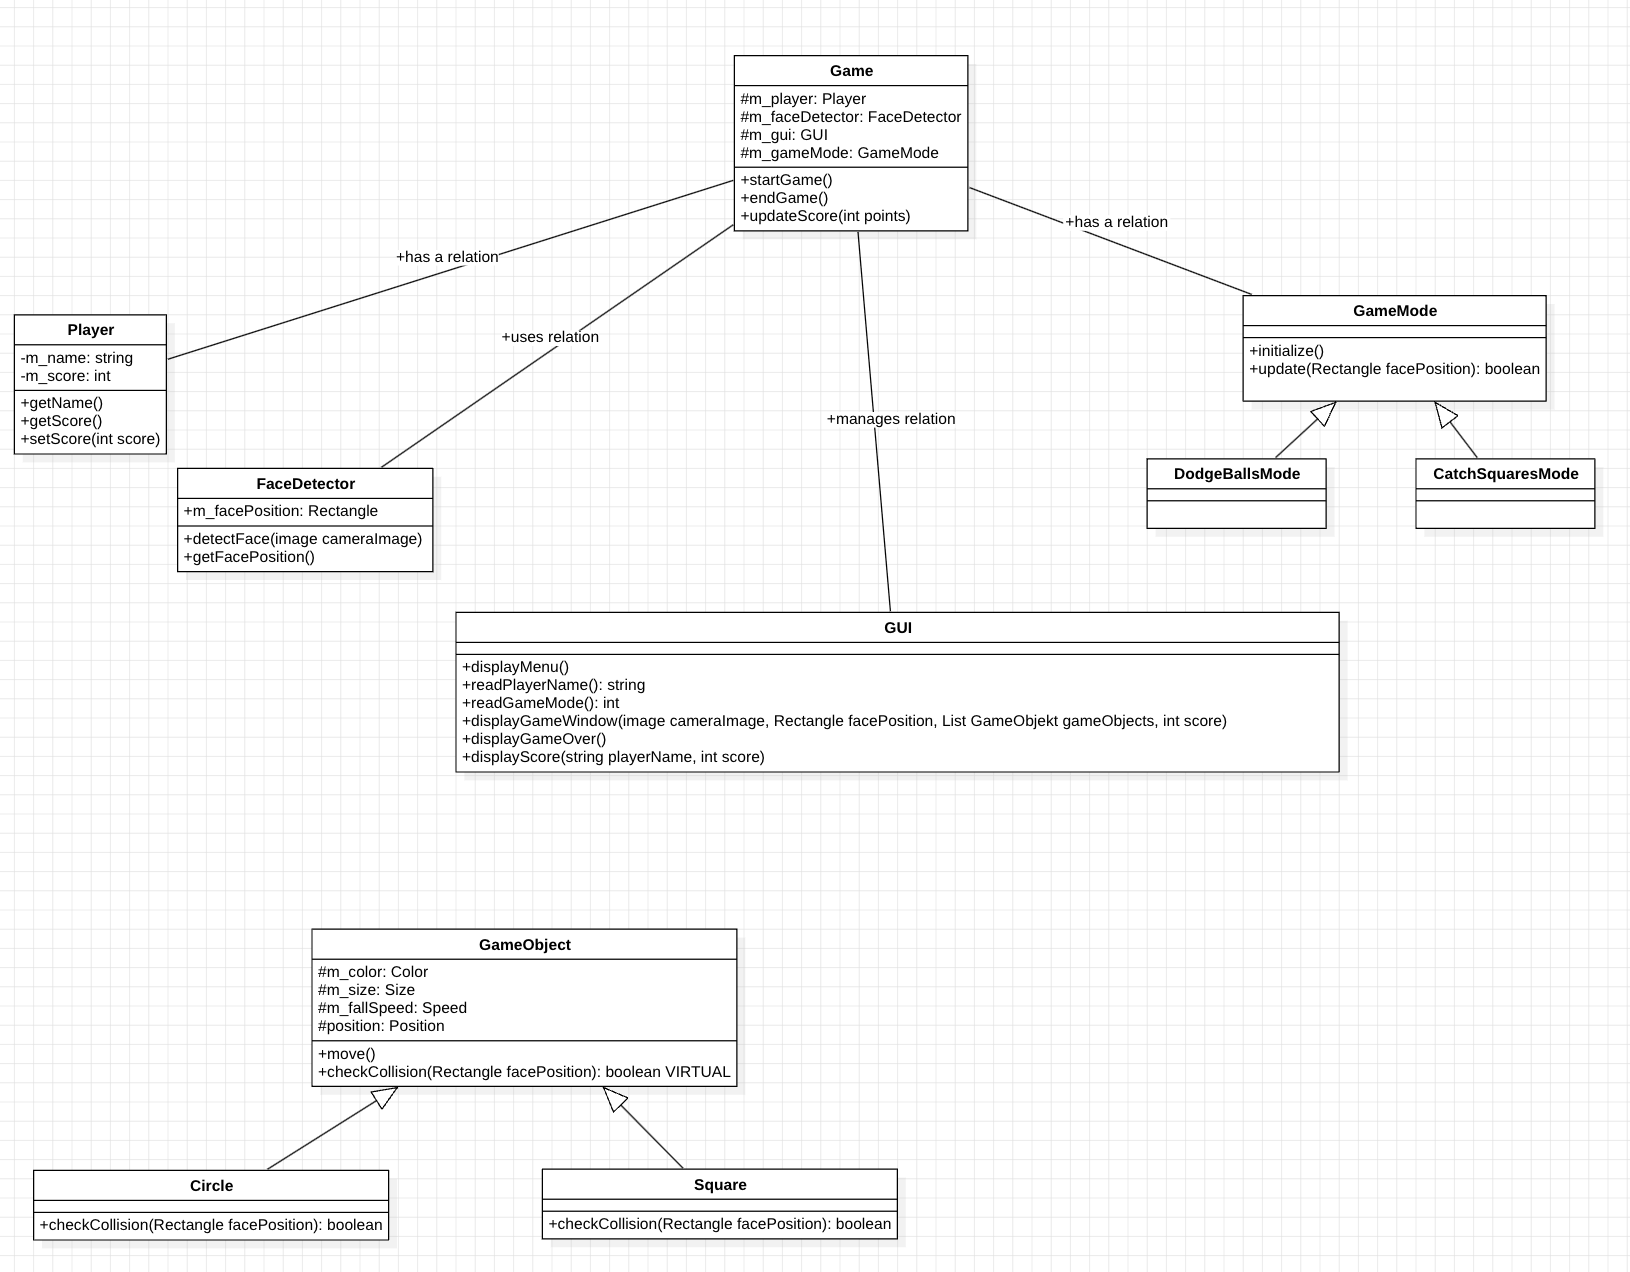
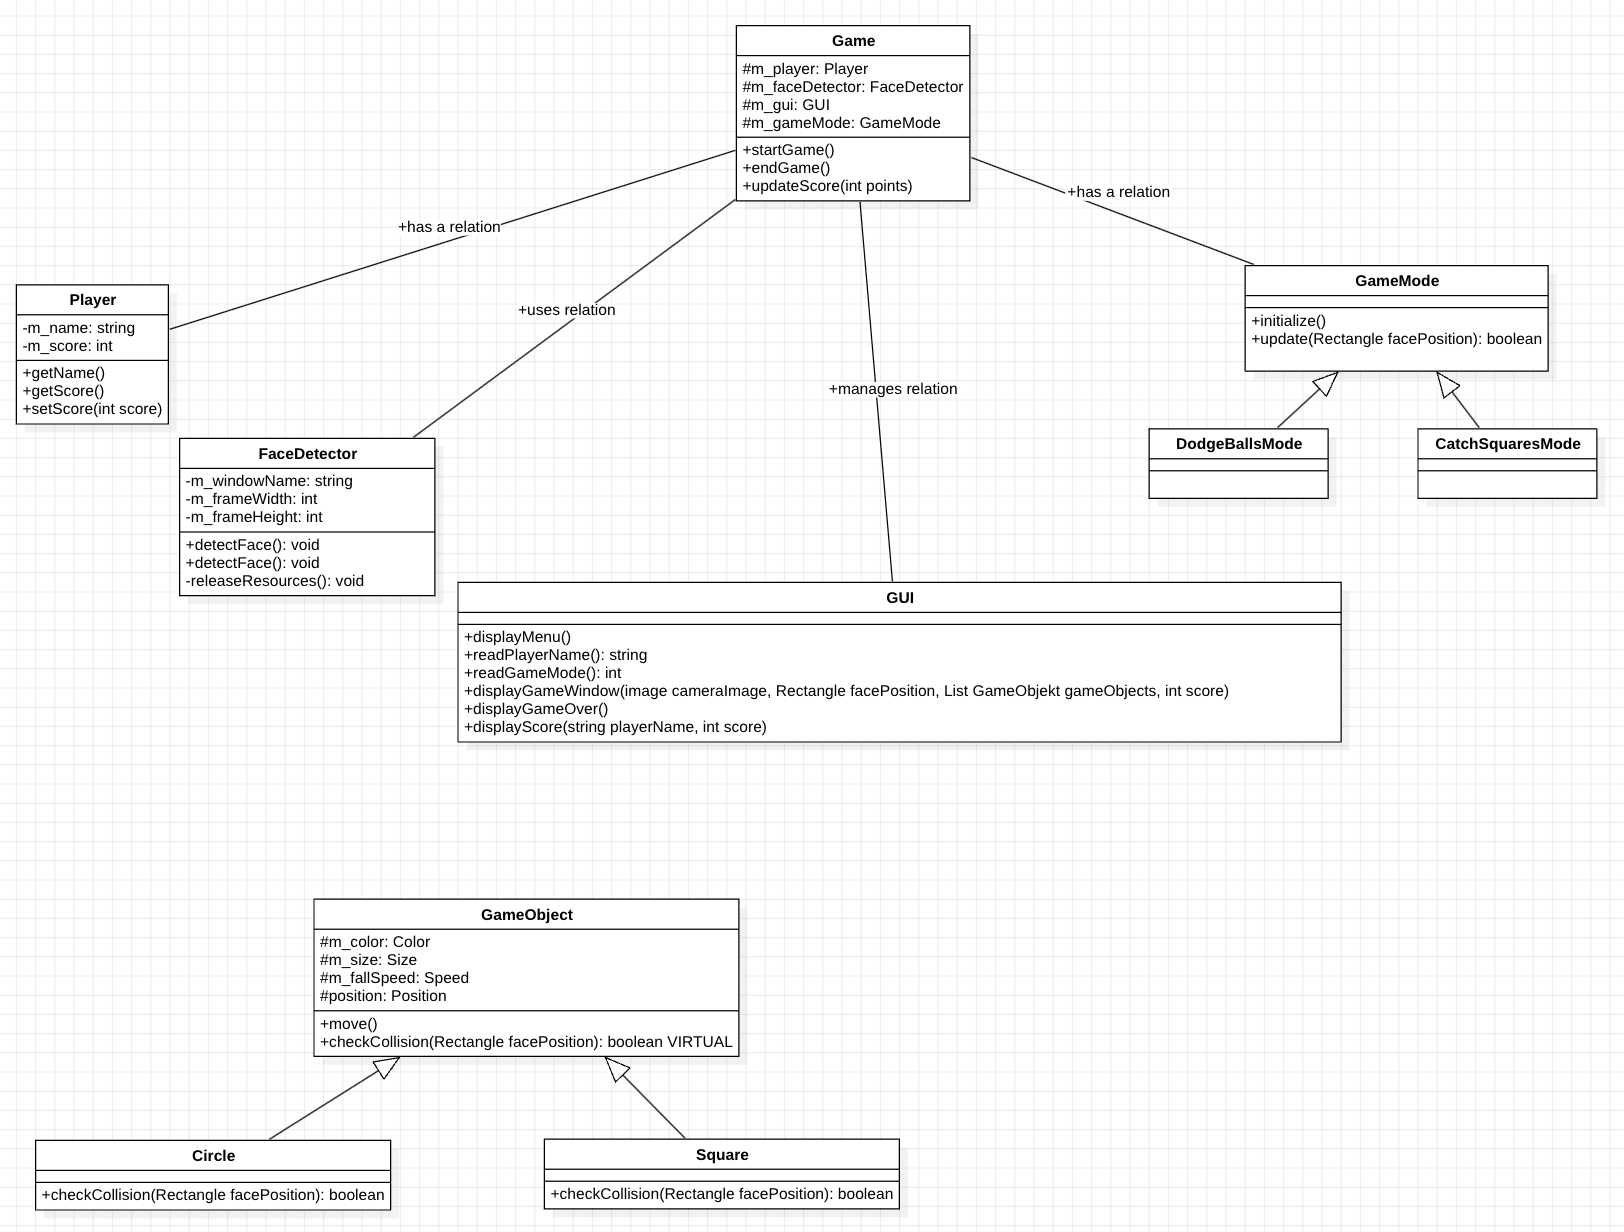
Updated UML FaceDetector

diff --git a/src/FaceDetector.cpp b/src/FaceDetector.cpp
@@ -2,7 +2,7 @@
 #include <iostream>
 
 // Constructor: Load the Haar cascade for face detection
-FaceDetector::FaceDetector(const std::string& cascadePath) : frameWidth(0), frameHeight(0) {
+FaceDetector::FaceDetector(const std::string& cascadePath) : m_frameWidth(0), m_frameHeight(0) {
     if (!faceCascade.load(cascadePath)) {
         std::cerr << "Error: COuld not load Haar cascade file from " << cascadePath << std::endl;
     }
@@ -29,15 +29,15 @@ bool FaceDetector::initialize() {
         return false;
     }
 
-    frameWidth = static_cast<int>(cap.get(cv::CAP_PROP_FRAME_WIDTH));
-    frameHeight = static_cast<int>(cap.get(cv::CAP_PROP_FRAME_HEIGHT));
+    m_frameWidth = static_cast<int>(cap.get(cv::CAP_PROP_FRAME_WIDTH));
+    m_frameHeight = static_cast<int>(cap.get(cv::CAP_PROP_FRAME_HEIGHT));
 
     // If camera doesn't provide a valid resolution, set to default 
-    if (frameWidth == 0 || frameHeight == 0) {
-        frameWidth = 640;
-        frameHeight = 480;
-        cap.set(cv::CAP_PROP_FRAME_WIDTH, frameWidth);
-        cap.set(cv::CAP_PROP_FRAME_HEIGHT, frameHeight);
+    if (m_frameWidth == 0 || m_frameHeight == 0) {
+        m_frameWidth = 640;
+        m_frameHeight = 480;
+        cap.set(cv::CAP_PROP_FRAME_WIDTH, m_frameWidth);
+        cap.set(cv::CAP_PROP_FRAME_HEIGHT, m_frameHeight);
     }
 
     if (faceCascade.empty()) {
@@ -45,17 +45,17 @@ bool FaceDetector::initialize() {
         return false;
     }
 
-    cv::namedWindow(windowName, cv::WINDOW_AUTOSIZE);
+    cv::namedWindow(m_windowName, cv::WINDOW_AUTOSIZE);
     return true;
 }
 
 // Main loop: Capture and process frames
-void FaceDetector::run() {
+void FaceDetector::detectFace() {
     if (!cap.isOpened() || faceCascade.empty()) {
         std::cerr << "Error: FaceDetection not properly initialized." << std::endl;
         return;
     }
-    
+
     cv::Mat frame;
     while (true) {
         cap >> frame;
@@ -77,7 +77,7 @@ void FaceDetector::run() {
         }
 
         // Display the frame
-        cv::imshow(windowName, frame);
+        cv::imshow(m_windowName, frame);
 
         // Exit loop if ESC key (ASCII 27) is pressed 
         int key = cv::waitKey(10);

diff --git a/inc/FaceDetector.hpp b/inc/FaceDetector.hpp
@@ -17,7 +17,7 @@ public:
     bool initialize();
 
     // Main loop: Capture and process frames
-    void run();
+    void detectFace();
 
 private:
     // Releases camera and destroys OpenCV windows
@@ -25,10 +25,10 @@ private:
 
     cv::VideoCapture cap; // Video capture object
     cv::CascadeClassifier faceCascade; // Detect face in the frame
-    const std::string windowName = "Face Detection"; // Window name for display
-    
-    int frameWidth; // Width of the camera frame
-    int frameHeight; // Height of the camera frame
+    const std::string m_windowName = "Face Detection"; // Window name for display
+
+    int m_frameWidth; // Width of the camera frame
+    int m_frameHeight; // Height of the camera frame
 };
 
 #endif // FACEDETECTOR_HPP
